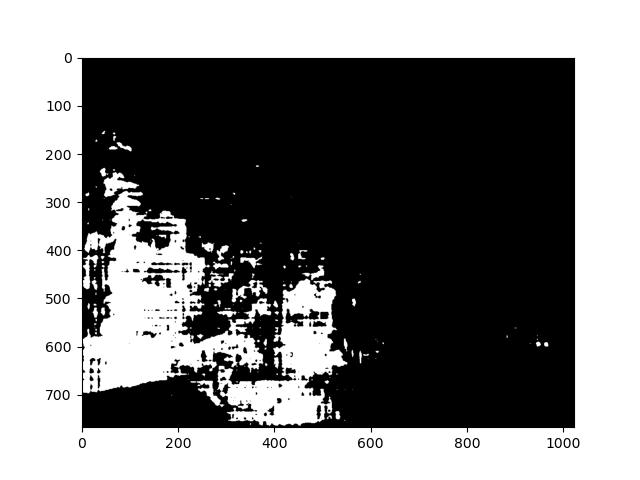
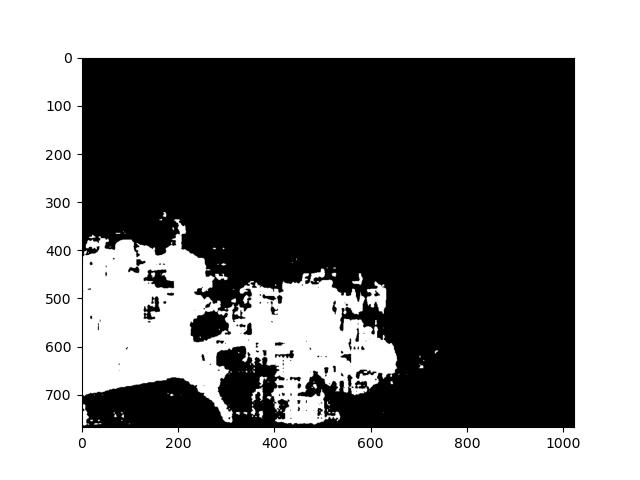
second commit

Changed region(s): [[0.125, 0.3438, 0.625, 0.9062], [0.1562, 0.2812, 0.2188, 0.3125], [0.1875, 0.7812, 0.2188, 0.8125]]

diff --git a/demo.py b/demo.py
@@ -18,7 +18,7 @@ device = "cuda" if torch.cuda.is_available() else "cpu"
 preprocess =  Compose([Resize((224, 224), interpolation=BICUBIC), ToTensor(),
     Normalize((0.48145466, 0.4578275, 0.40821073), (0.26862954, 0.26130258, 0.27577711))])
 
-pil_img = Image.open("2.jpg").convert("RGB")
+pil_img = Image.open("9.jpg").convert("RGB")
 # pil_img = preprocess(pil_img).unsqueeze(0).to(device)
 
 model, vis_processors, _ = load_model_and_preprocess(name="blip2_opt", model_type="pretrain_opt6.7b", is_eval=True, device=device)
@@ -50,8 +50,8 @@ image = preprocess(pil_img).unsqueeze(0).to(device)
 out_list = []
 blip_output_forsecond = blip_output_forsecond[0].split('-')[0]
 out_list.append(blip_output_forsecond)
-# out_list.append(blip_output2[0])
-# out_list = " ".join(out_list)
+out_list.append(blip_output2[0])
+out_list = " ".join(out_list)
 text_list = []
 text_list.append(out_list)
 text = text_list
@@ -284,12 +284,12 @@ with torch.no_grad():
     sm_mean = sm_norm.mean(-1, keepdim=True)
 
     # get positive points from individual maps, and negative points from the mean map
-    p, l = clip.similarity_map_to_points(sm_mean, cv2_img.shape[:2], cv2_img, t=0.9)
+    p, l = clip.similarity_map_to_points(sm_mean, cv2_img.shape[:2], cv2_img, t=0.95)
     num = len(p) // 2
     points = p[num:] # negatives in the second half
     labels = [l[num:]]
     for i in range(sm.shape[-1]):
-        p, l = clip.similarity_map_to_points(sm[:, i], cv2_img.shape[:2], cv2_img, t=0.9)
+        p, l = clip.similarity_map_to_points(sm[:, i], cv2_img.shape[:2], cv2_img, t=0.95)
         num = len(p) // 2
         points = points + p[:num] # positive in first half
         labels.append(l[:num])
@@ -312,4 +312,4 @@ with torch.no_grad():
     print('SAM & CLIP Surgery for texts combination:', text)
     plt.imshow(vis)
     plt.show()
-    plt.savefig("./2_sam.jpg")
+    plt.savefig("./9_sam.jpg")

diff --git a/clip/clip.py b/clip/clip.py
@@ -335,6 +335,9 @@ def similarity_map_to_points(sm, shape, cv2_img, t=0.8, down_sample=2):
     points = []
     vis = (sm1.cpu().numpy() * 255).astype('uint8')
     vis = cv2.cvtColor(vis, cv2.COLOR_GRAY2BGR)
+    th, imgx = cv2.threshold(vis, 0, 255, cv2.THRESH_OTSU)
+    plt.imshow(imgx)
+    plt.savefig("./map1.jpg")
     vis = cv2_img * 0.4 + vis * 0.6
     vis = cv2.cvtColor(vis.astype('uint8'), cv2.COLOR_BGR2RGB)
     plt.imshow(vis)
